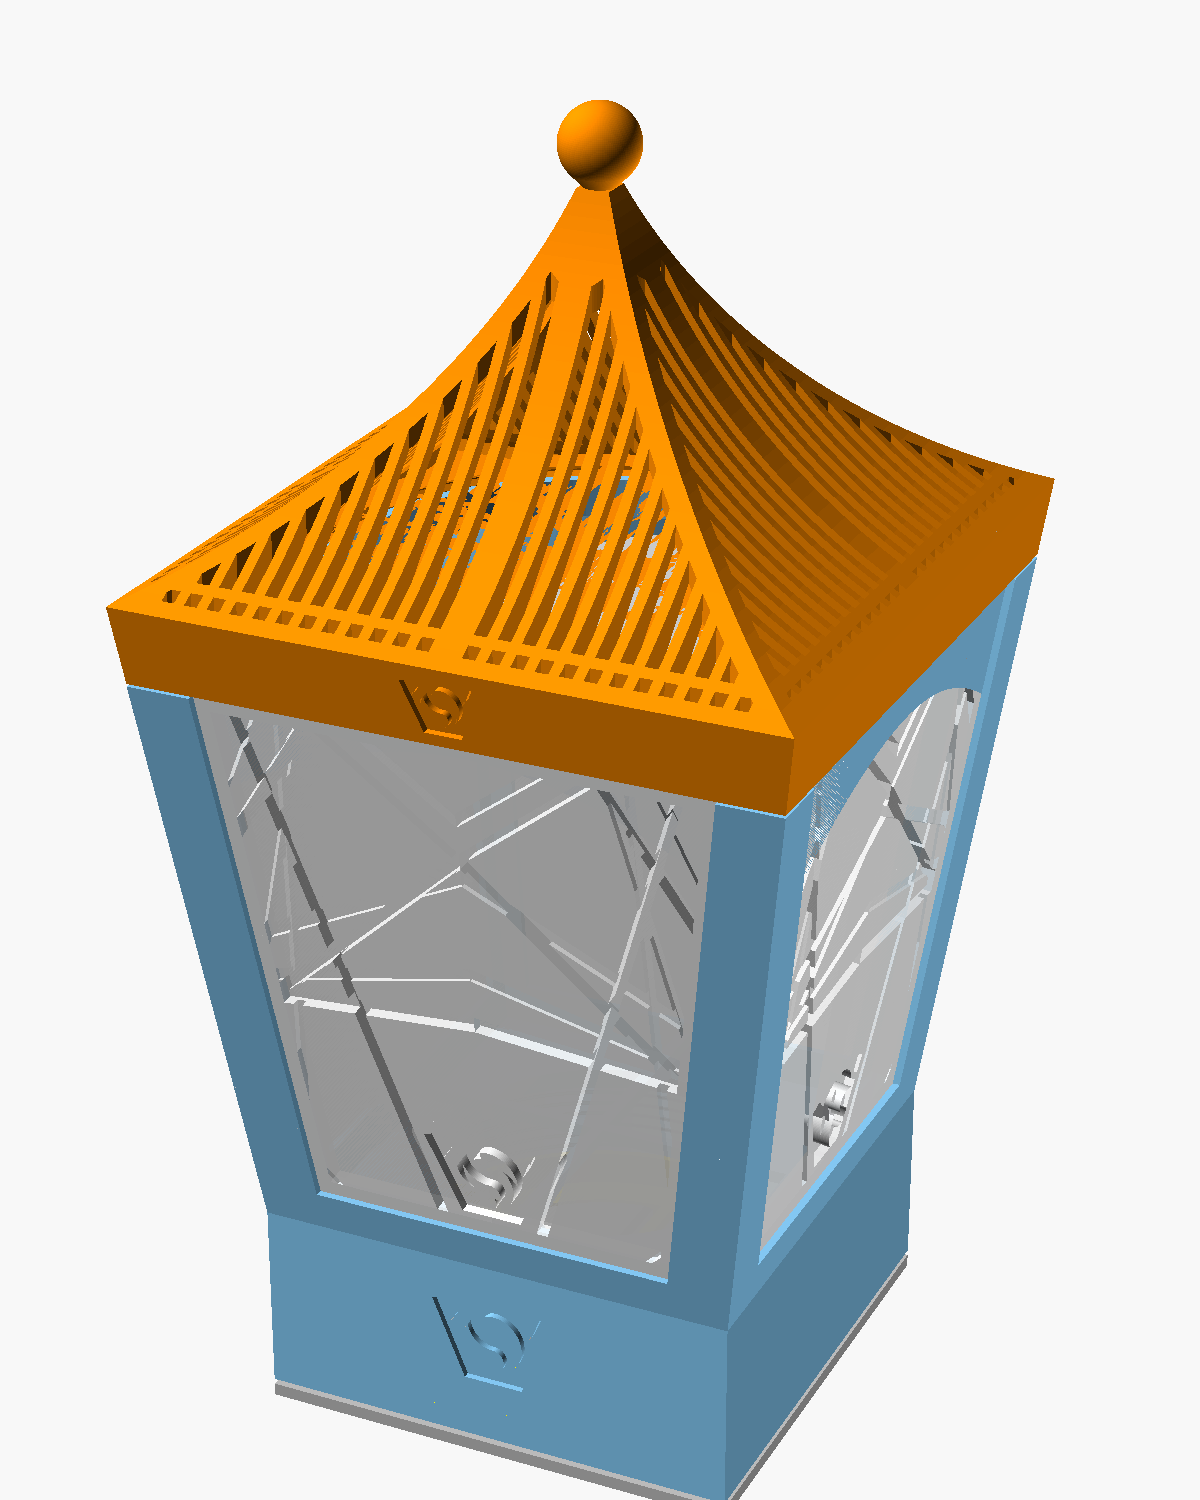
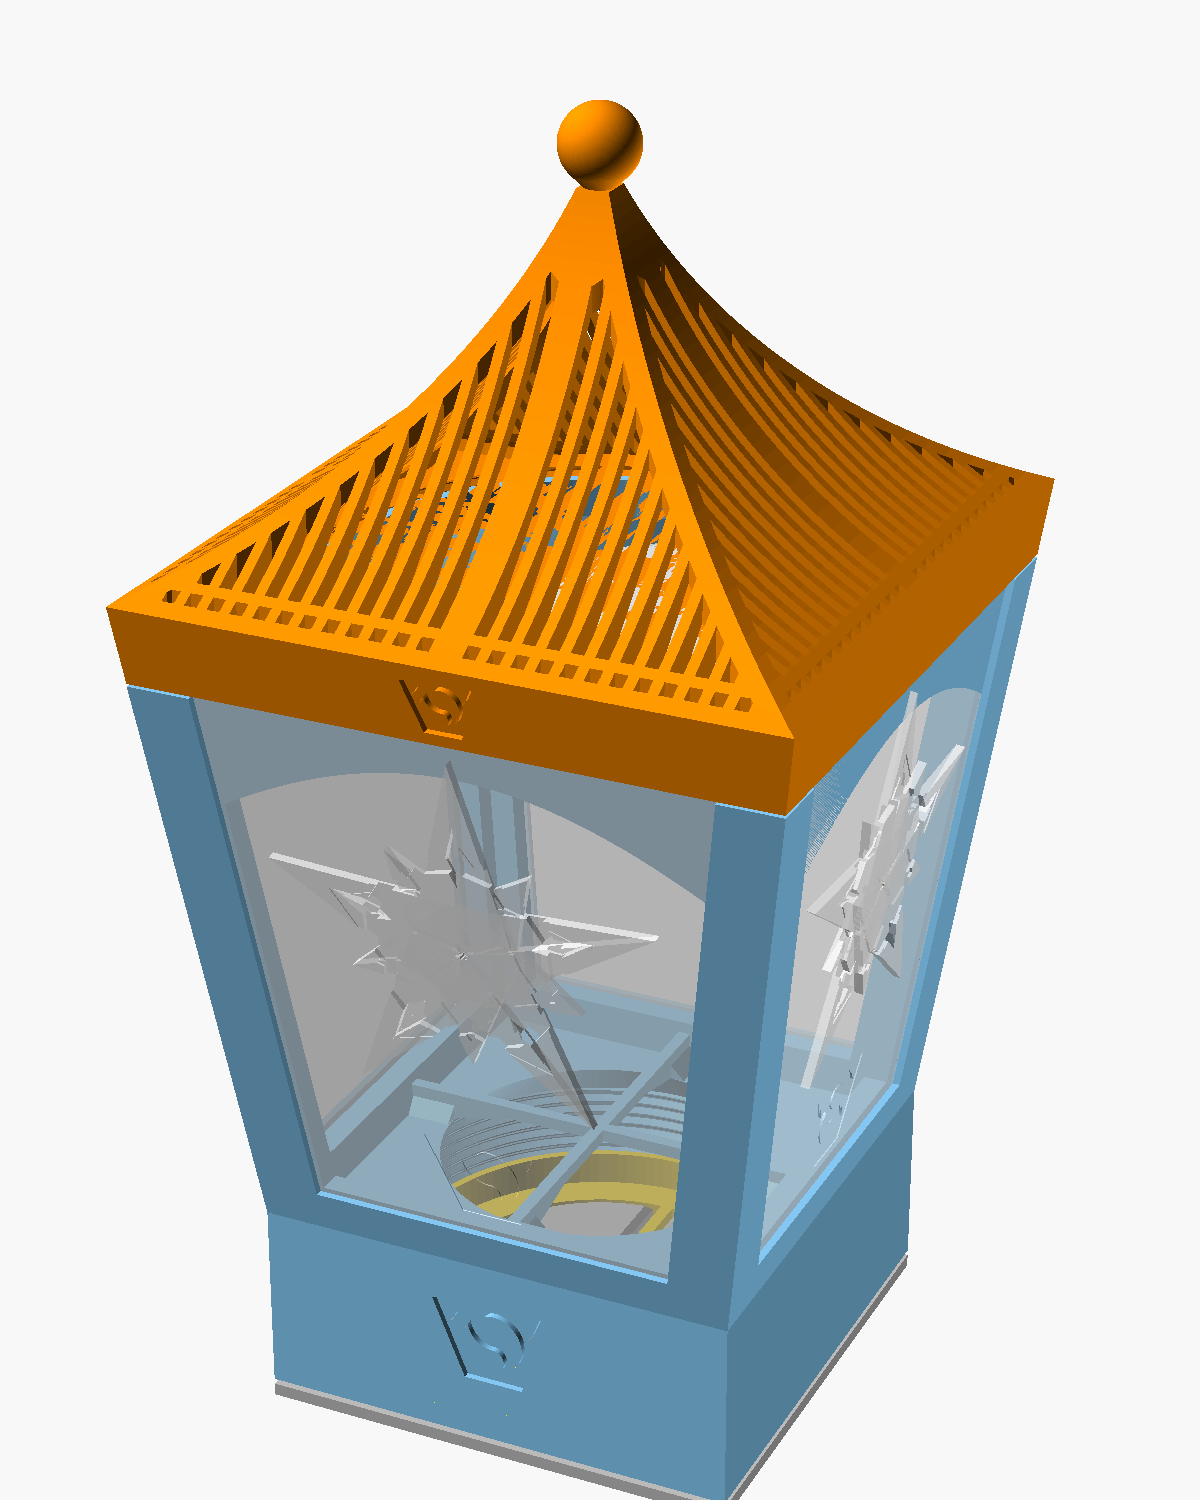
Lantern 3 V2: a Christmas star on each thin window instead of random lines
The windows are now 0.4 mm plates (window_thickness; the slits follow at
1.0 mm) with one star on the outside, ported from published_christmas_star:
sectors moved past the middle so they overlap in a smaller star, a hole near
each point, and lines_per_sector random lines per half sector. The star is
as large as fits above the logo (63 mm) and stands a random whole number of
layers between star_height_min (0.2) and star_height_max (1.4 mm) on the
plate. Line j is cut down to 1 + floor(j * (layers - 1) / lines_per_sector)
layers, so a 7 layer star has the original's 1 to 6. The star overlaps the
plate by eps, so each window is one solid.

Checked in OpenSCAD 2021.01 and 2026.10.25, with and without lazy-union.
Readme, preview and thickness-map pictures updated.

Changed region(s): [[0.1542, 0.46, 0.6167, 0.8587], [0.6167, 0.46, 0.8325, 0.828]]

diff --git a/projects/RGBW_pucklight_lantern3/readme.md b/projects/RGBW_pucklight_lantern3/readme.md
@@ -8,45 +8,55 @@ pillars.
 
 ![preview](preview.png)
 
-## V2: decorative windows
+## V2: star windows
 
 `RGBW_pucklight_lantern3V2_decorative_window.scad`. The lantern of V1 with
-the windows decorated as in `../published_christmas_star`: random lines
-across the window, mirrored about its middle, each cut from the outside
-down to a different number of layers. Printed in a translucent filament, the
-light shines through each line in a different shade. Everything else is as
-below.
+thin windows, each with a star on its outside as in
+`../published_christmas_star`. Printed in a translucent filament, the light
+shines through the plate brightly and through the star in shades. The frame
+and the slits are as below, only thinner.
 
 ![preview V2](preview_v2.png)
 
-![decorative window](window_v2.png)
-
-- the window is still `window_thickness` (3 mm) thick in its 3.6 mm slits,
-  `slot_clearance` (0.3 mm) thinner on each side, so it slides in. The lines
-  only take material away, so they do not change that.
-- `lines_per_half` (12) lines go through random points of the window's
-  right half, at random angles and widths between `line_width_min` (0.42
-  mm) and `line_width_max` (3 mm), and are mirrored onto the left half.
-- line i is cut down to i + 1 layers of `layer_step` (0.2 mm): from 0.2 mm
-  to 2.4 mm. Where lines cross, the deeper one wins. Set `layer_step` to
-  the layer height you print with.
-- the lines stay `decoration_border` (2 mm) inside the part of the window
-  you see between the pillars and above the rail, so the edges in the slits
-  keep their full thickness, and 2 mm away from the logo.
-- `decoration_seed` picks the pattern. `part = "window"` makes one window
+- the plate is `window_thickness` (0.4 mm) thick, with the logo engraved
+  half through it. The slits follow it: 1.0 mm wide, `slot_clearance` (0.3
+  mm) on each side. The star stays `decoration_border` (2 mm) inside the
+  part of the window you see between the pillars, so it never goes into a
+  slit; slide the window in with the star outside.
+- the star is the Christmas star's: `star_points` (5) points, each a sector
+  moved `star_sector_shift` (0.375) of its length past the middle, so the
+  sectors overlap in a smaller star there, with a hole near each point.
+  `star_inner_factor` and `star_angle_bias` shape the valleys and the
+  points as in `star.scad`; `random_points` picks 3 to 8 points at random.
+- it is as large as fits above the logo, 63 mm across, and stands a random
+  number of layers on the plate, between `star_height_min` (0.2 mm) and
+  `star_height_max` (1.4 mm). So the window is 0.6 to 1.8 mm thick at the
+  star. Set `layer_step` (0.2 mm) to the layer height you print with.
+- `lines_per_sector` (6) random lines go through each half sector, at
+  random angles and widths between `line_width_min` (0.42 mm) and
+  `line_width_max` (3 mm). Line j is cut down to 1 + j × (layers - 1) / 6
+  layers, rounded down: 1 to 6 layers in a 7 layer star, as in `star.scad`.
+  A star one layer high has no lines. Every half sector has the same lines,
+  so the star is symmetric.
+- `decoration_seed` picks the star. `part = "window"` makes one window
   with it; change the seed between exports for four different windows. The
-  assembly and the print layout show four windows with the same pattern.
+  assembly and the print layout show four windows with the same star.
 - `part = "random_windows"` makes 25 windows, lying flat in a 5 x 5 grid,
-  each with its own pattern: the bottom left one with `decoration_seed`,
-  the others with seeds 1000 apart. Export them as one file and split it
-  into objects in the slicer to pick the ones you print. The grid is 467 x
-  488 mm.
+  each with its own star: the bottom left one with `decoration_seed`, the
+  others with seeds 1000 apart. Export them as one file and split it into
+  objects in the slicer to pick the ones you print. The grid is 467 x 488
+  mm.
+
+The pictures below are thickness maps seen from above: the darker, the
+thicker, from the logo (0.2 mm) and the plate (0.4 mm) to 1.8 mm.
+
+![a star window](window_v2.png)
 
 ![random window patterns](random_windows.png)
 
-Print the window flat, its outside (the lines and the logo) up. Each line's
-floor is flat, so it needs no support. Not printed yet: the thinnest line
-is one layer (0.2 mm) thick, which may be weak if it is wide.
+Print the window flat, the star and the logo up. Each level is flat, so it
+needs no support. Not printed yet: the 0.4 mm plate is thin and bends
+easily, so the window may sit loosely in its 1.0 mm slits.
 
 ## parts
 
@@ -215,10 +225,10 @@ they are too weak, raise `roof_wall`.
 
 - `RGBW_pucklight_lantern3.scad`: the generator.
 - `RGBW_pucklight_lantern3V2_decorative_window.scad`: the generator with
-  decorative windows.
+  star windows.
 - `preview.png`: the assembly. `section.png`: the assembly cut in half.
-- `preview_v2.png`: the V2 assembly. `window_v2.png`: a V2 window.
-- `random_windows.png`: the 25 random window patterns.
+- `preview_v2.png`: the V2 assembly. `window_v2.png`: a V2 window's
+  thickness map. `random_windows.png`: the 25 random windows' thickness map.
 - `readme_hgc.md`: the original description.
 - `inspiration/`: pictures and the Onshape export.
 
